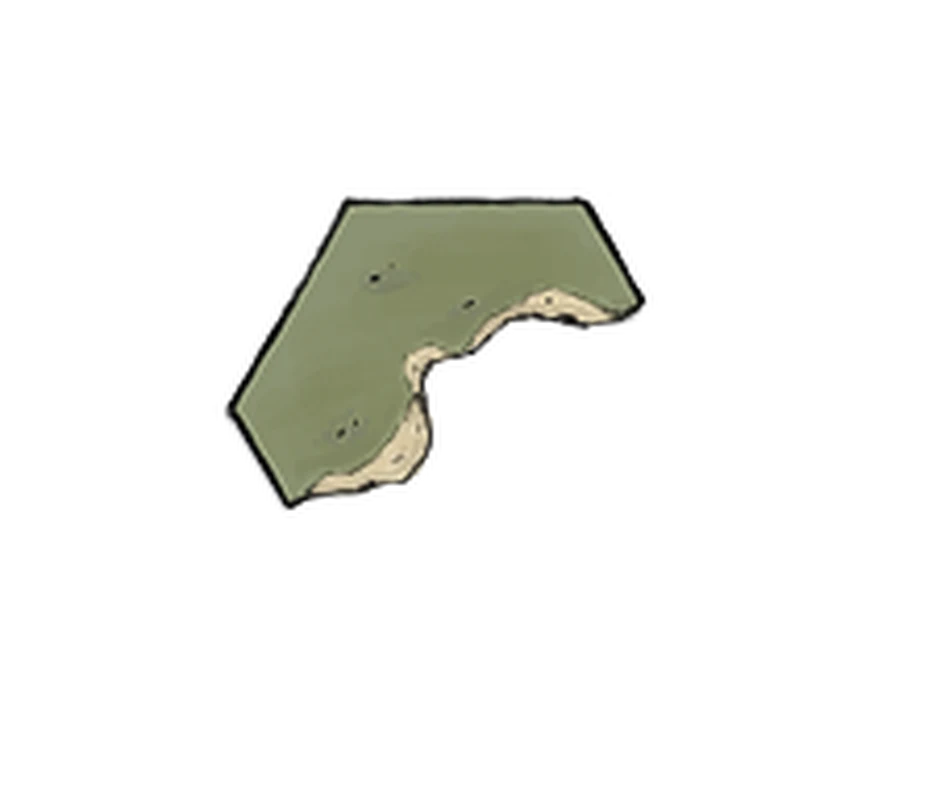
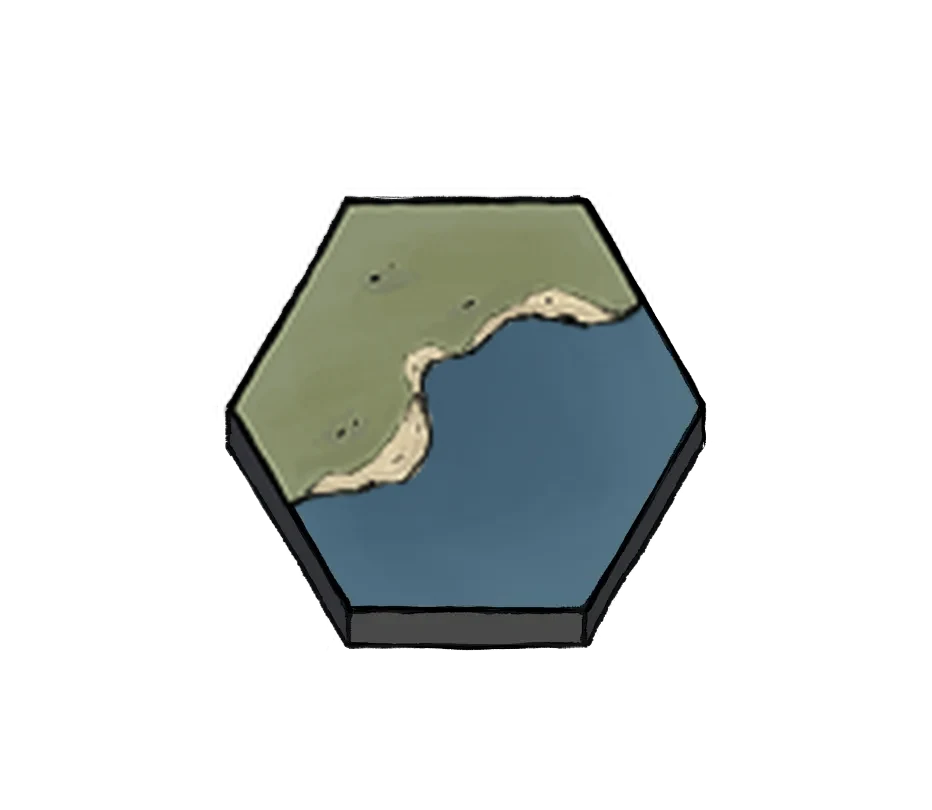
fix(hex): islands sit on the ocean and count as sea for the shore; no blank rocky base in deep tunnels

diff --git a/docs/FILE-INVENTORY.md b/docs/FILE-INVENTORY.md
@@ -86,7 +86,7 @@
 | `hex-map/geometry.mjs` | 259 | Hex numbering by cube difference from one anchor cell; printed offset ↔ cube under the map's column-shift rule. Pure. |
 | `hex-map/hex-adoption.mjs` | 186 | Read-once SDX record adoption with negative offset parsing, lossless original archives, existing-native conflict precedence, reports and automatic eligibility hooks. |
 | `hex-map/hex-art-core.mjs` | 238 | Pure layout for the drawn hex map: each hex's ground picture and overlays (`look` sums up what it shows), its picture rectangle, which chunks it lands in, which chunks the view wants, chunk sharpness per zoom, and which chunks a tag change dirties. |
-| `hex-map/hex-art-overlays.mjs` | 231 | Rivers, roads and beaches on the drawn hex map (pure, step 3 of docs/plans/hex-painting.md), ported from Shadowdark Extras (MIT, gmdima): from the tag store's river, path and coast features it works out which edges each hex's channel or shore reaches (a spanning forest so marked hexes never ring; a river dead end runs into the water ahead; sand on the water hex along its land edges, ice on arctic sea), then picks the hand-drawn piece, turn and mirror that draw them. |
+| `hex-map/hex-art-overlays.mjs` | 234 | Rivers, roads and beaches on the drawn hex map (pure, step 3 of docs/plans/hex-painting.md), ported from Shadowdark Extras (MIT, gmdima): from the tag store's river, path and coast features it works out which edges each hex's channel or shore reaches (a spanning forest so marked hexes never ring; a river dead end runs into the water ahead; sand on the water hex along its land edges, ice on arctic sea), then picks the hand-drawn piece, turn and mirror that draw them. |
 | `hex-map/hex-art.mjs` | 444 | The drawn hex map (experimental, docs/plans/hex-painting.md step 2): a SceneManager that renders each tagged hex's picture into square chunk textures at the sharpness the zoom needs, keeps only chunks near the view, and re-renders just the chunks a tag or override change touches. Only on scenes the GM switches on (`hexArtDraw`), never over a baked map; on an Extras-painted map it hides Extras' Tiles on the client. Build drawn map: a new scene sharing a print's tags, with its own look (`hexArtSeed`). |
 | `hex-map/hex-bake.mjs` | 229 | Bakes a drawn hex map (hex-painting plan step 7): ground, rivers, roads and shores drawn piece by piece into a KTX2 image pyramid by Web Workers with Foundry's libktx, saved in the world folder, plus a new (baked) scene in the Enhancer's flags whose keyed pictures stay fog-hidden sprites; and exports the whole map as one WebP. Ported from Shadowdark Extras' hex-bake.mjs (MIT, gmdima). |
 | `hex-map/hex-brush-app.mjs` | 262 | The hex brush: a small window that sets one terrain (a picture tile per Legend terrain) plus features, so clicking or dragging across the tag overlay retags whole patches; a stroke is one scene write and Undo puts it back. |
